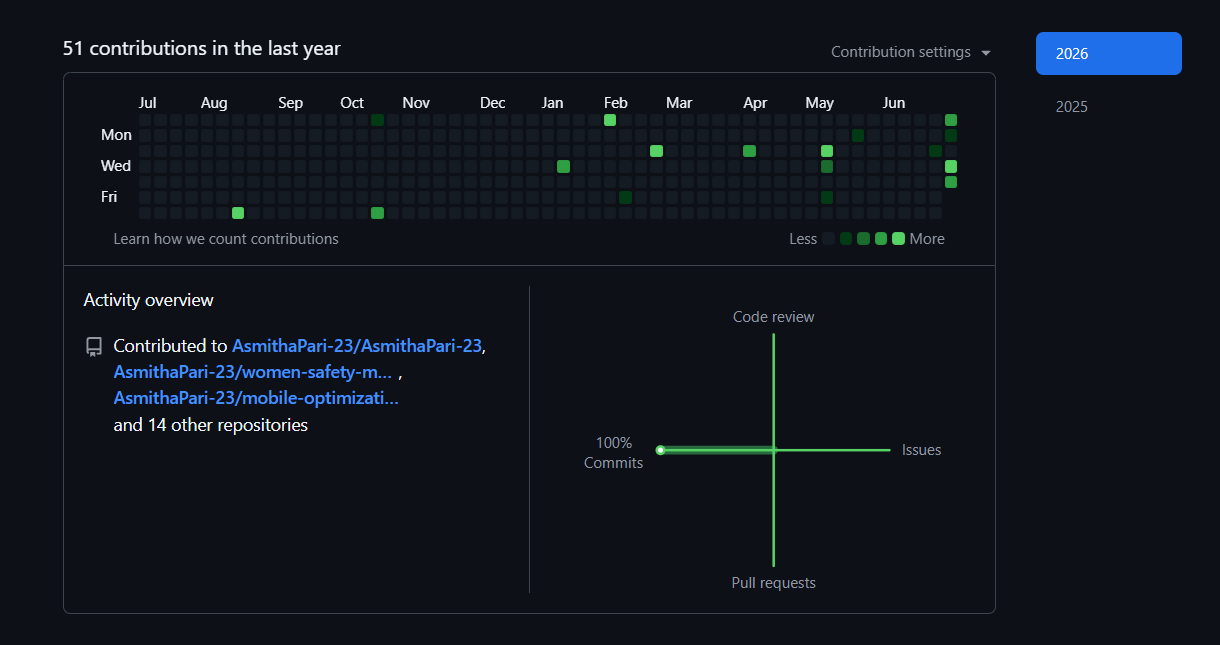
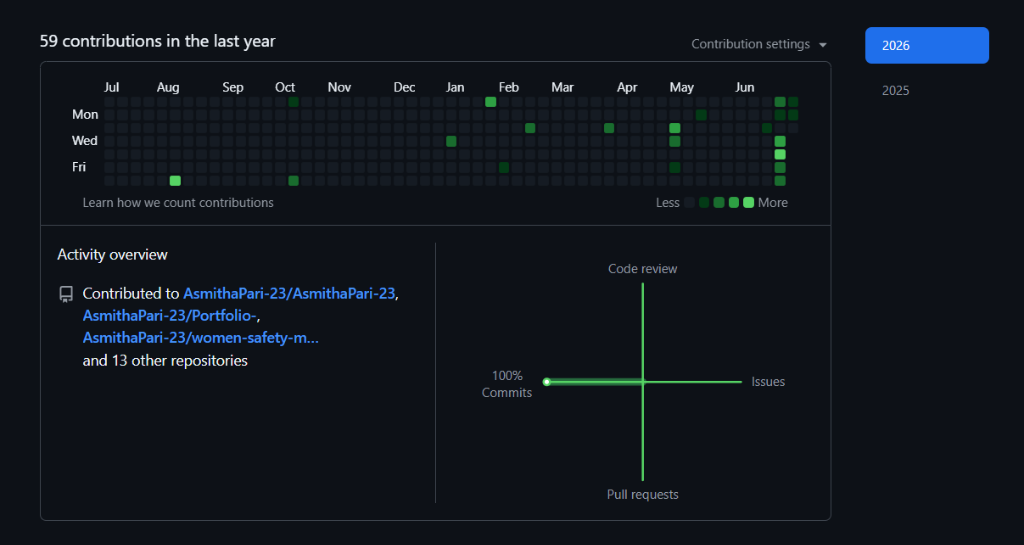
Refactor bio statements to professional phrasing and update GitHub activity image

diff --git a/src/components/AboutSection.jsx b/src/components/AboutSection.jsx
@@ -67,9 +67,9 @@ export default function AboutSection() {
             </h3>
             
             <p className="text-portfolio-secondary text-sm md:text-base leading-relaxed">
-              I am Asmitha P., a dedicated IT undergraduate developer deeply fascinated by the capabilities of full-stack engineering. 
-              My expertise centers around the MERN (MongoDB, Express.js, React, Node.js) stack, where I write robust server logic and build high-performance client-side layouts. 
-              I design products with a critical focus on usability, page-speed, security, and standards-compliant code.
+              I am Asmitha P., an IT full-stack engineer. 
+              My expertise centers around the MERN (MongoDB, Express.js, React, Node.js) stack, where I architect robust server logic and build high-performance client-side interfaces. 
+              I design products with a critical focus on usability, optimization, security, and standards-compliant code.
             </p>
 
             <div className="grid grid-cols-1 sm:grid-cols-2 gap-4 border-t border-portfolio-border pt-6 mt-6 font-space text-xs uppercase tracking-wider text-portfolio-secondary">

diff --git a/src/components/GithubLeetcodeSection.jsx b/src/components/GithubLeetcodeSection.jsx
@@ -41,11 +41,10 @@ export default function GithubLeetcodeSection() {
               className="border border-portfolio-border p-4 bg-portfolio-sec flex flex-col items-center justify-center overflow-x-auto"
             >
               <div className="w-full relative flex items-center justify-center min-h-[180px]">
-                {/* Image overlay to blend with portfolio colors */}
                 <img 
                   src={githubImg} 
                   alt="Github Contribution Activity" 
-                  className="max-w-full h-auto rounded-sm invert grayscale contrast-[130%] opacity-85 select-none"
+                  className="max-w-full h-auto rounded-sm select-none"
                   onError={(e) => {
                     e.target.style.display = 'none';
                   }}

diff --git a/src/components/Hero.jsx b/src/components/Hero.jsx
@@ -87,8 +87,8 @@ export default function Hero() {
         >
           <h3 className="font-space text-xs tracking-wider uppercase text-portfolio-accent">// INTRODUCTION</h3>
           <p className="text-portfolio-secondary font-manrope text-sm leading-relaxed max-w-sm">
-            IT undergraduate student with an intense focus on building full-stack web applications. 
-            Blending technical rigor with clean visual hierarchy to develop secure, functional, and beautiful web products.
+            Full-Stack Developer specializing in building high-performance web applications. 
+            Blending technical rigor with clean visual hierarchy to develop secure, functional, and user-centric web products.
           </p>
         </motion.div>
 
